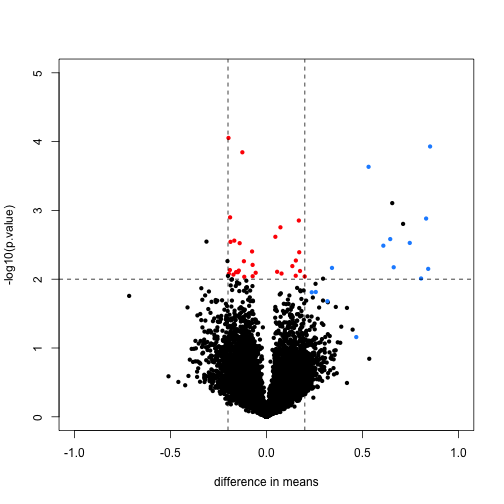
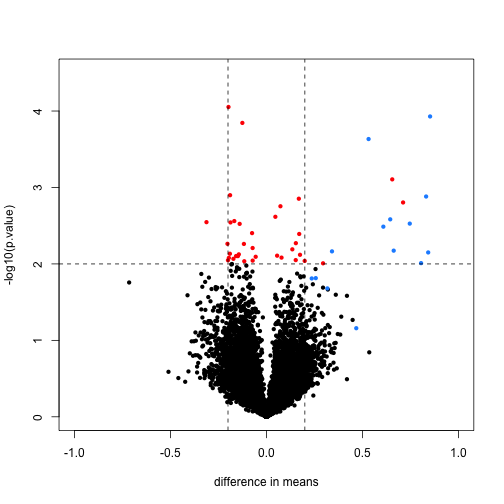
adding hierarchical_models to book

diff --git a/manuscript/hierarchical_models.md b/manuscript/hierarchical_models.md
@@ -7,43 +7,12 @@ title: Hierarchical Models
 
 ## Hierarchical Models
 
-Now we're going to show how we can use the hierarchical model described
-in the previous module to improve our estimates of the variance.
-So, here on the bottom we have the various estimates
-obtained from the sample.
-And you can see there's a few that are very, very small.
-And a few that are quite big.
-Once we apply the hierarchical model and we
-obtain a new estimate for that variance that
-incorporates the variability that we see across all genes,
-everything start shrinking towards a center that's at the somewhere
-around here.
-And you can see that a standard deviation estimate that
-was practically zero, and made a t-statistic very big
-is now moving towards a positive number, that's
-going to make the t-statistic M become smaller.
-So what's going on here is that we start out
-with the standard deviation estimates for all genes.
-We have a standard deviation for the average gene.
-All the standard deviations get shrunken towards this value, which
-makes the t-statistic statistic get shrunken from the observed t-statistic
-to something that's not as big.
-So here's the volcano plot before applying
-hierarchical model, the t-test that we described.
-And we have again, several false positives
-that are there because we have a small estimate of the standard deviation.
-And once we apply this hierarchical a model
-and obtain what is usually call a moderated t-statistic,
-things improve quite a lot.
-So now we see all the blue points still up there, still very high.
-But now the red points are no longer here.
-The red points have moved down to the non-significant area.
-So this is a clear example of how using hierarchical models
-can greatly improve your downstream results when
-it comes to things like the detecting differentiation expressed.
-And this approach that we showed for differential expression
-is actually applicable in a wide range of cases.
+In this section use the mathematical theory described an approach that has become widely applied in the analysis of high-throughput data. The general idea is to build a _hierachichal model_ with two levels. One level described variability across samples/units, and the other describes variability across features. The first level of variation is accounted for my all the models and approaches we have described here, for example the model that leads to the t-test. The second level provides power by permiting us to "borrow" information from all features to inform the inference performed on each one. 
 
+Here we describe on specific case that is currently the most widely used approach to inference with gene expression data. It is the model implemented by the `limma` Bioconductor package. This idea has been adapted to develop methods for other data types such as RNAseq CITE.
+This package provides an altenative to the t-test that greatly improves power by modeling the variance. We motivate and demonstrate the approach with an example.
+
+Here is a volcano showing effect sizes and p-value from applying a t-test to data from an experiment running six replicated sample with 16 genes artificially made to be different in two groups of three genes. These genes are the only genes for which the null hyothesis is true. In the plot they are shown in blue.
 
 
 ```r
@@ -104,18 +73,46 @@ library(genefilter)
 ```r
 fac <- factor(rep(1:2,each=3))
 tt <- rowttests(exprs(rma95),fac)
-mask <- with(tt, abs(dm) < .2 & p.value < .01)
+smallp <- with(tt, p.value < .01)
 spike <- rownames(rma95) %in% colnames(pData(rma95))
-cols <- ifelse(mask,"red",ifelse(spike,"dodgerblue","black"))
+cols <- ifelse(spike,"dodgerblue",ifelse(smallp,"red","black"))
 
 with(tt, plot(-dm, -log10(p.value), cex=.8, pch=16,
-     xlim=c(-1,1), ylim=c(0,5),
+     xlim=c(-1,1), ylim=c(0,4.5),
      xlab="difference in means",
      col=cols))
 abline(h=2,v=c(-.2,.2), lty=2)
 ```
 
 ![plot of chunk unnamed-chunk-1](images/hierarchical_models-unnamed-chunk-1-1.png) 
+
+Note that we cut-off the range of the y-axis at 4.5 but there is one blue point with a p-value smaller than {$$}10^{-6}{/$$}. Two finding stand out from this plot. The first is that only one of the positives would be found to be significant with a standar 5% FDR cutoff:
+
+
+```r
+sum( p.adjust(tt$p.value,method = "BH")[spike] < 0.05)
+```
+
+```
+## [1] 1
+```
+
+This of course has to do with the low power associated with a sample size of three in each group. The second finding is that if we forget about inference and simple rank the genes based on p-value we obtain many false positives. For example, six of the smallest 10 p-values are false positives. 
+
+
+```r
+table( top50=rank(tt$p.value)<= 10, spike) 
+```
+
+```
+##        spike
+## top50   FALSE  TRUE
+##   FALSE 12604    12
+##   TRUE      6     4
+```
+
+In the plot we notice that these are mostly genes for which the effect size is relatively small implying that the estimated standard error is small. We can confirm this with a plot:
+
 
 ```r
 tt$s <- apply(exprs(rma95), 1, function(row) sqrt(.5 * (var(row[1:3]) + var(row[4:6]))))
@@ -124,9 +121,26 @@ with(tt, plot(s, -log10(p.value), cex=.8, pch=16,
               col=cols))
 ```
 
-![plot of chunk unnamed-chunk-1](images/hierarchical_models-unnamed-chunk-1-2.png) 
+![plot of chunk unnamed-chunk-4](images/hierarchical_models-unnamed-chunk-4-1.png) 
 
-Now with limma
+Here is where a hierarchical model can be useful. If we can make an assumption about the distribution of these variances across genes, then we can improve estimate by "adjusting" estimates that are "too small" according to this distribution. In a previous section we described how the F-distribution provides approximates the distribution of the observed variances.
+
+{$$}
+s^2 \sim s_0^2 F_{d,d_0}
+{/$$}
+
+Because we have thousands of data points, we can actually check this assumption and also estimate the parameters {$$}s_0{/$$} and {$$}d_0{/$$}. This particular approach is referred to as empirical Bayes because it can be described as using data (empricial) to build the prior distribution (Bayesian approach). 
+
+Now we apply what we learned with the Baseball example to the standard error estiamtes. As before we have an observed value for each gene {$$}s_g{/$$}, a sampling distribution as a-prior distribution. We can therefore compute a posterior distribution for the variance {$$}\sigma^2_g{/$$} and obtain the posterior mean. You can see the details of the derivation [CITE Smyth 2004]
+
+{$$}
+\mbox{E}[\sigma^2_g \mid s_g] = \frac{d_0 s_0^2 + d s^2_g}{d_0 + d}
+{/$$}
+
+Note that as before, the posterior mean _shrinks_ the observed variance {$$}s_g^2{/$$} towards the global variance {$$}s_0^2{/$$} and the weights depend on the sample size through the degrees of freedom {$$}d{/$$}, and in this case, the shape of the prior distribution through {$$}d_0{/$$}. 
+
+In the plot above we can see how the variance estimate _shrink_ for 40 genes:
+
 
 
 ```r
@@ -145,19 +159,7 @@ library(limma)
 ```r
 fit <- lmFit(rma95, model.matrix(~ fac))
 ebfit <- ebayes(fit)
-limmares <- data.frame(dm=coef(fit)[,"fac2"], p.value=ebfit$p.value[,"fac2"])
-with(limmares, plot(dm, -log10(p.value),cex=.8, pch=16,
-     col=cols,xlab="difference in means",
-     xlim=c(-1,1), ylim=c(0,5)))
-abline(h=2,v=c(-.2,.2), lty=2)
-```
 
-![plot of chunk unnamed-chunk-2](images/hierarchical_models-unnamed-chunk-2-1.png) 
-
-Shrink
-
-
-```r
 n <- 40
 qs <- seq(from=0,to=.2,length=n)
 idx <- sapply(seq_len(n),function(i) which(as.integer(cut(tt$s^2,qs)) == i)[1])
@@ -170,4 +172,31 @@ segments((tt$s^2)[idx],rep(.1,n),
          ebfit$s2.post[idx],rep(.9,n))
 ```
 
-![plot of chunk unnamed-chunk-3](images/hierarchical_models-unnamed-chunk-3-1.png) 
+![plot of chunk unnamed-chunk-5](images/hierarchical_models-unnamed-chunk-5-1.png) 
+
+An important aspect of this adjustment is that genes having a very small sample deviation close to 0 are no longer close to 0. We can now create a version of the t-test that instead of the sample standard deviation uses this posterior mean or "shrunken" estimate of the variance. Once we do this, the improvements can be seen clearly in the volcano plot
+
+
+```r
+limmares <- data.frame(dm=coef(fit)[,"fac2"], p.value=ebfit$p.value[,"fac2"])
+with(limmares, plot(dm, -log10(p.value),cex=.8, pch=16,
+     col=cols,xlab="difference in means",
+     xlim=c(-1,1), ylim=c(0,5)))
+abline(h=2,v=c(-.2,.2), lty=2)
+```
+
+![plot of chunk unnamed-chunk-6](images/hierarchical_models-unnamed-chunk-6-1.png) 
+
+The number of false positives in the top 10 is now reduced to 2. 
+
+
+```r
+table( top50=rank(limmares$p.value)<= 10, spike) 
+```
+
+```
+##        spike
+## top50   FALSE  TRUE
+##   FALSE 12608     8
+##   TRUE      2     8
+```
